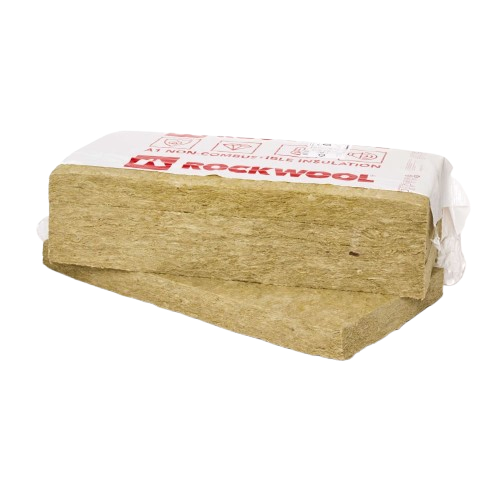
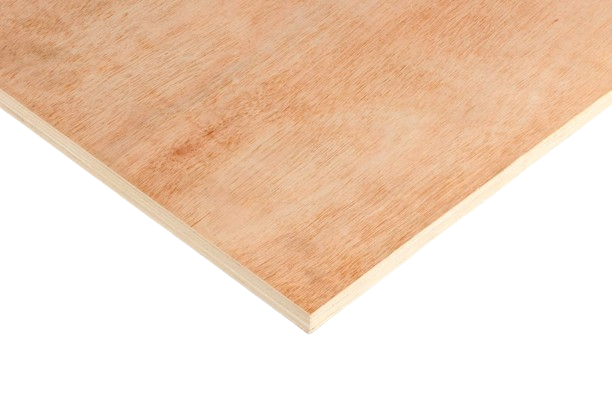
category section complete responsive

diff --git a/home.html b/home.html
@@ -646,18 +646,51 @@
                 </button>
 
         </div>
-        <div class = "single-cat p-2">
-            <div class ="cat-img">
-                  <img src="assets/images/cat/cat1.png" alt="">
+        <div class="catlist d-flex justify-content-between flex-wrap">
+            <div class = "single-cat p-2">
+                <div class ="cat-img">
+                    <img src="assets/images/cat/cat1.png" alt="">
+                </div>
+                <h1>Insulation Boards</h1>
             </div>
-            <h1>Insulation Boards</h1>
-        </div>
-        <div class = "single-cat p-2">
-            <div class ="cat-img">
-                  <img src="assets/images/cat/cat2.png" alt="">
+            <div class = "single-cat p-2">
+                <div class ="cat-img">
+                 <img src="assets/images/cat/cat2.png" alt="">
+                </div>
+                <h1> Timber</h1>
             </div>
-            <h1>Insulation Boards</h1>
+               <div class = "single-cat p-2">
+                <div class ="cat-img">
+                 <img src="assets/images/cat/cat3.png" alt="">
+                </div>
+                <h1>Insulation Slabs</h1>
+            </div>
+               <div class = "single-cat p-2">
+                <div class ="cat-img">
+                 <img src="assets/images/cat/cat4.png" alt="">
+                </div>
+                <h1>Plasterboard</h1>
+            </div>
+               <div class = "single-cat p-2">
+                <div class ="cat-img">
+                 <img src="assets/images/cat/cat5.png" alt="">
+                </div>
+                <h1>Sheet Materials</h1>
+            </div>
+               <div class = "single-cat p-2">
+                <div class ="cat-img">
+                 <img src="assets/images/cat/cat7.png" alt="">
+                </div>
+                <h1>Doors</h1>
+            </div>
+               <div class = "single-cat p-2">
+                <div class ="cat-img">
+                 <img src="assets/images/cat/cat8.png" alt="">
+                </div>
+                <h1>Roofing</h1>
+            </div>
         </div>
+      
     </div>
    
 

diff --git a/assets/css/style.css b/assets/css/style.css
@@ -1228,16 +1228,22 @@ small{
     font-size: var(--text-medium);
     color:#686868
 }
+.cat .catlist{
+    padding-top: 40px;
+}
 .cat .single-cat{
     display: flex;
     flex-direction: column;
-    gap:16px
+    gap:16px;
+    justify-content: center;
+    align-items: center;
 }
 .cat .single-cat .cat-img{
     width:135px;
     height:135px ;
     border-radius:66%;
-    background-color:#F4F4F4
+    background-color:#F4F4F4;
+    overflow: hidden;
 }
 .cat .single-cat .cat-img img {
     width:100%;